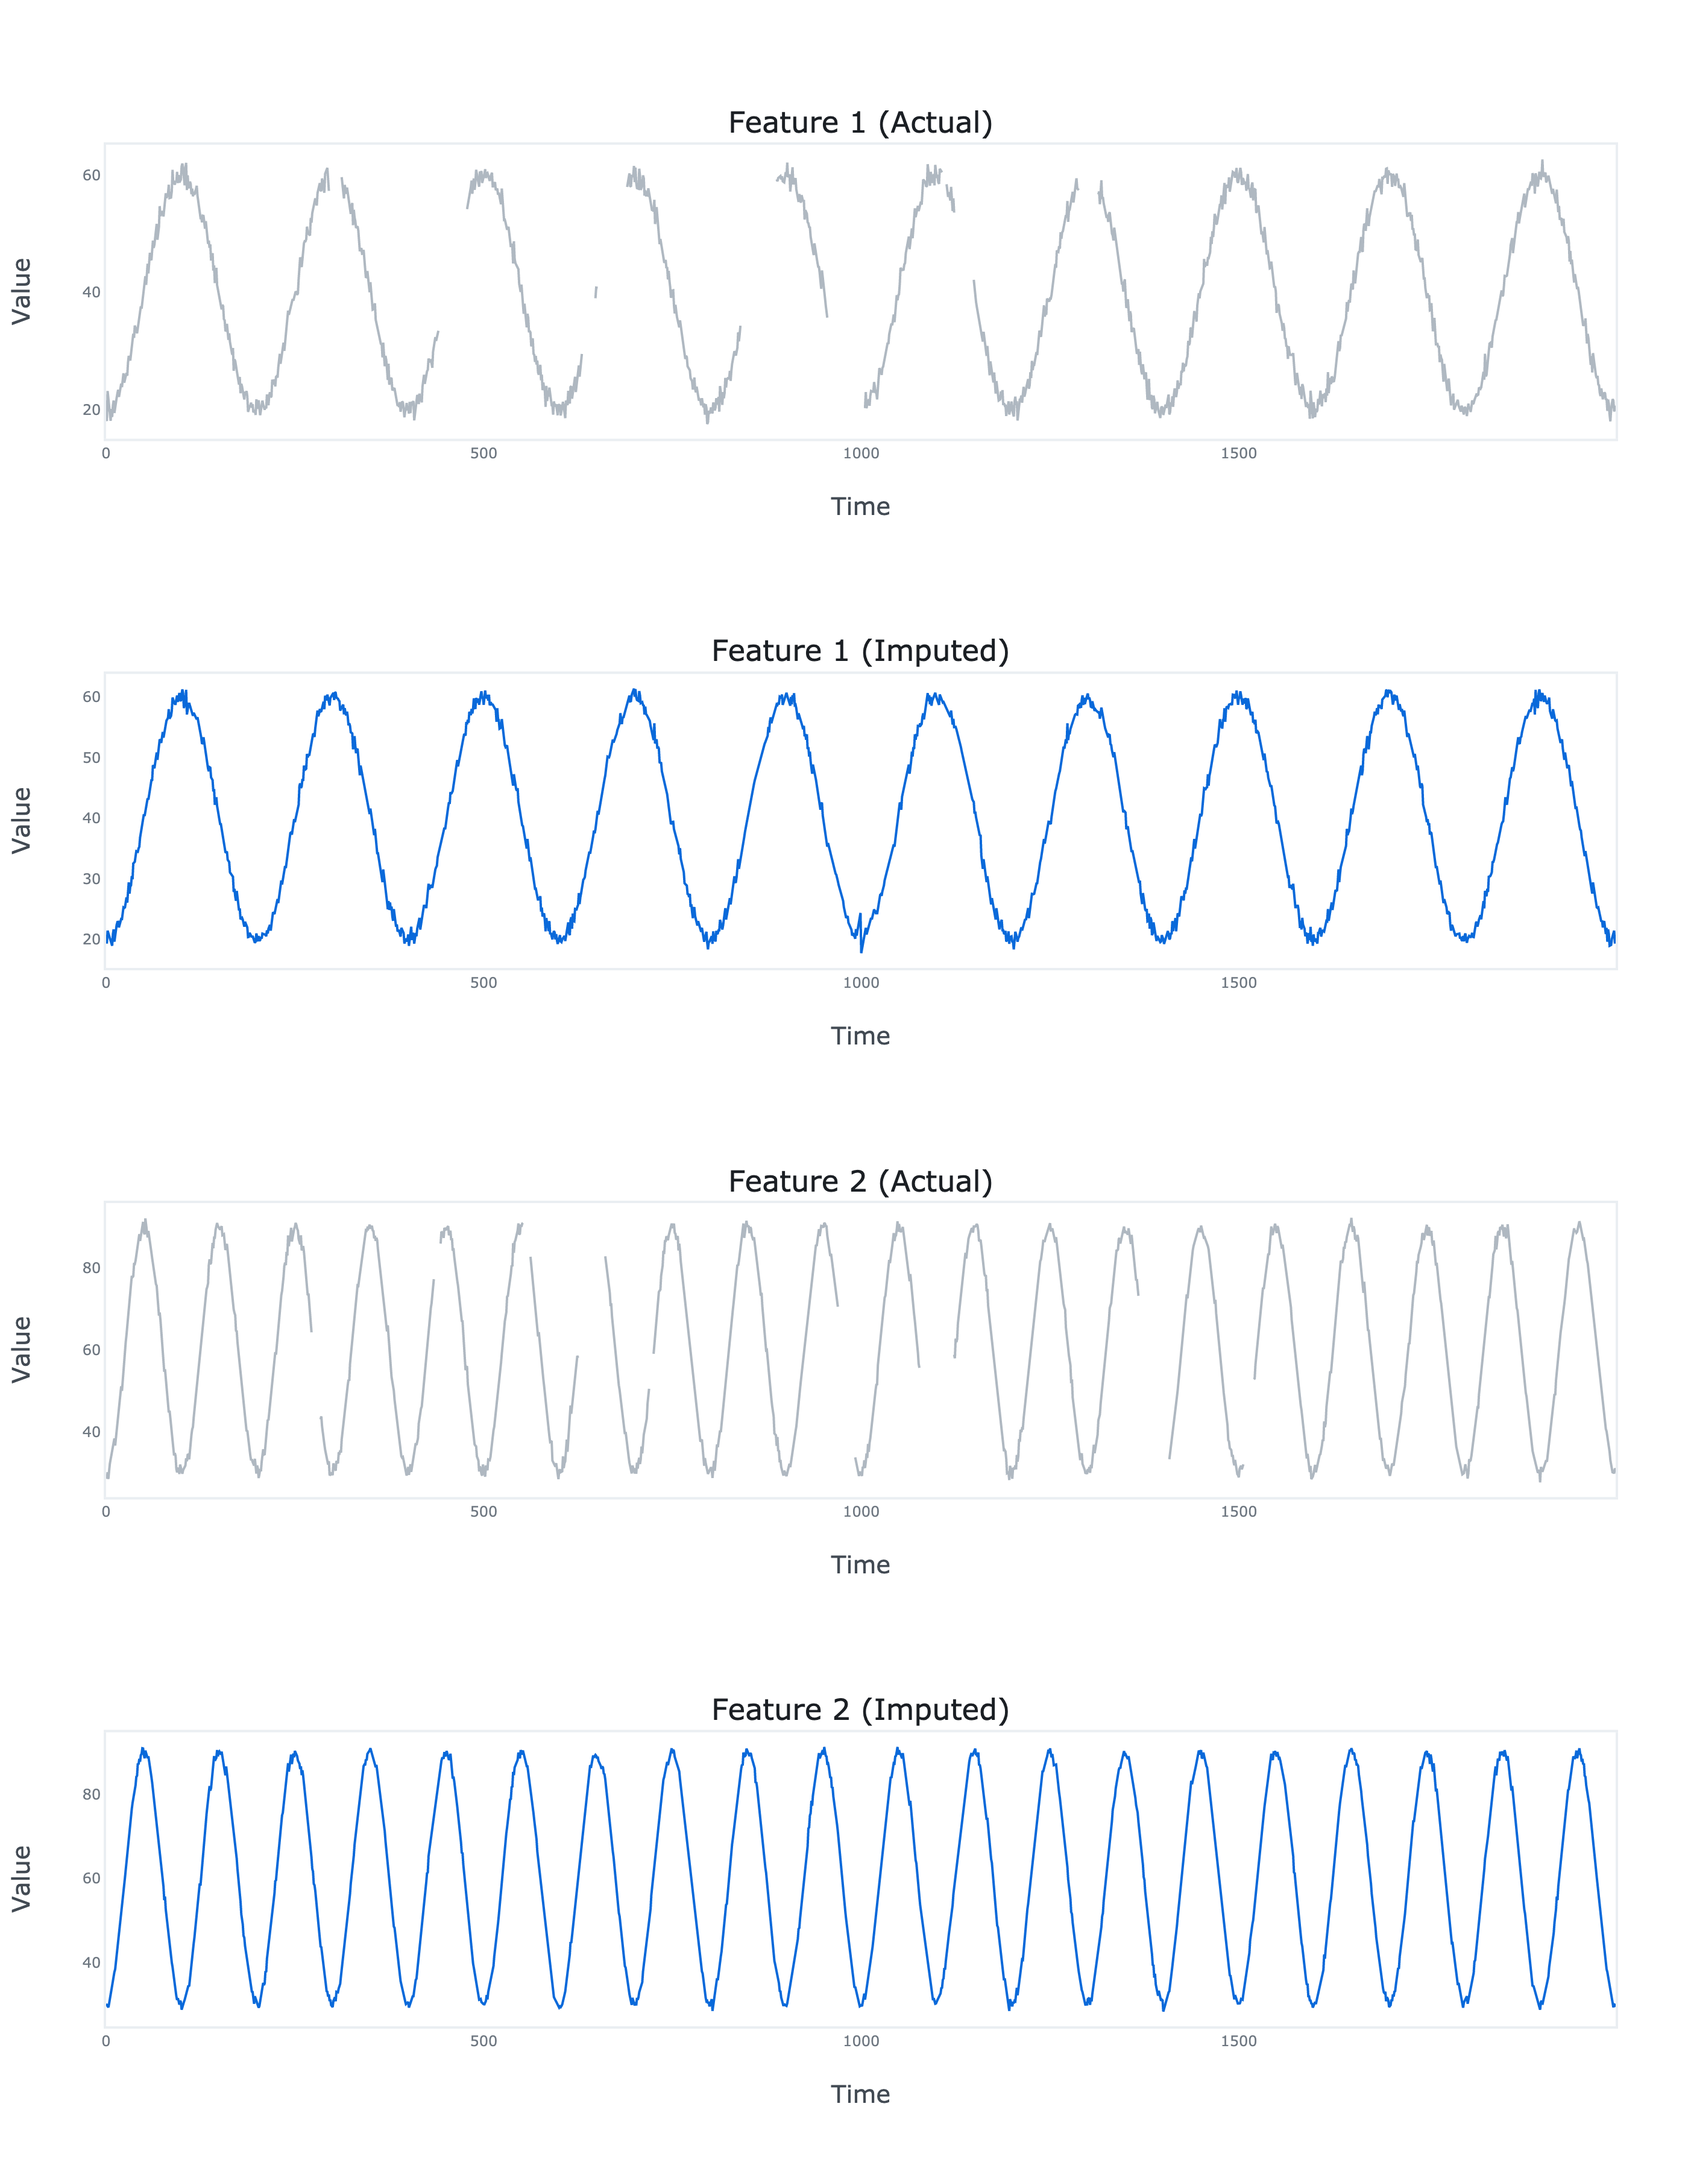
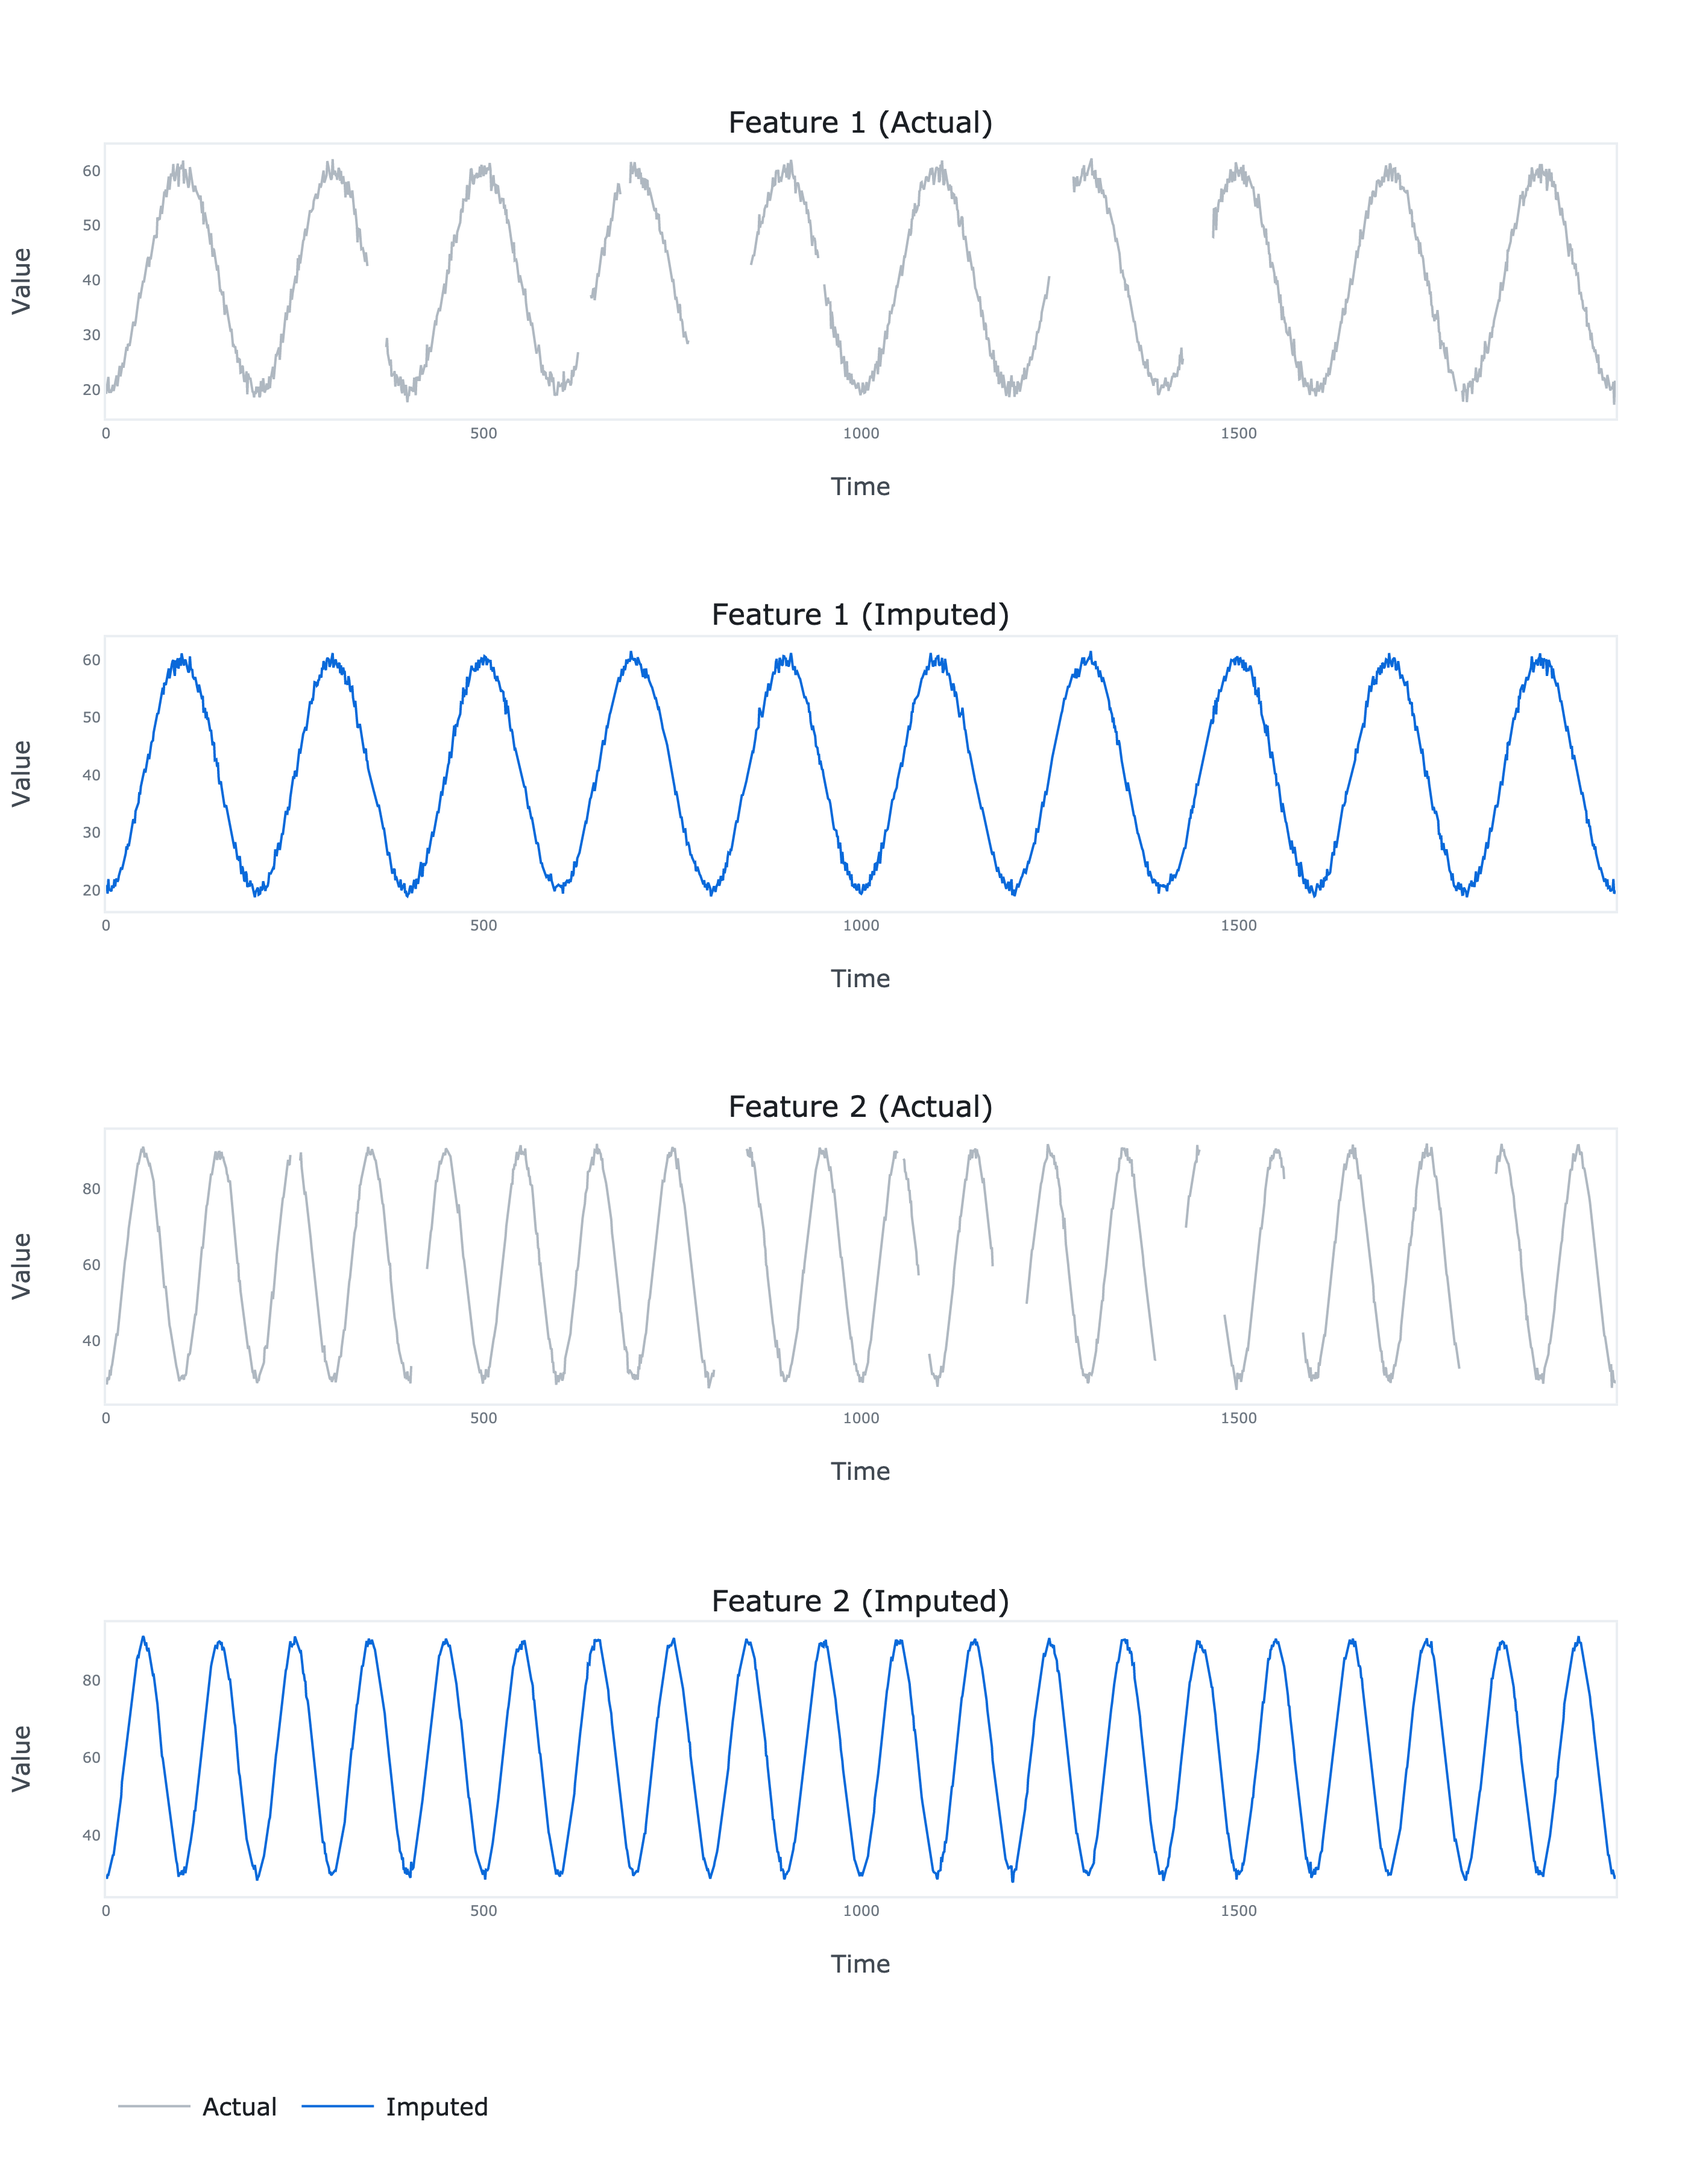
update example

diff --git a/brits_tensorflow/plots.py b/brits_tensorflow/plots.py
@@ -67,7 +67,8 @@ def plot(actual, imputed):
         fig.add_trace(
             go.Scatter(
                 y=actual[:, i],
-                showlegend=False,
+                showlegend=True if i == 0 else False,
+                name='Actual',
                 mode='lines',
                 connectgaps=False,
                 line=dict(
@@ -111,7 +112,8 @@ def plot(actual, imputed):
         fig.add_trace(
             go.Scatter(
                 y=imputed[:, i],
-                showlegend=False,
+                showlegend=True if i == 0 else False,
+                name='Imputed',
                 mode='lines',
                 line=dict(
                     width=1,
